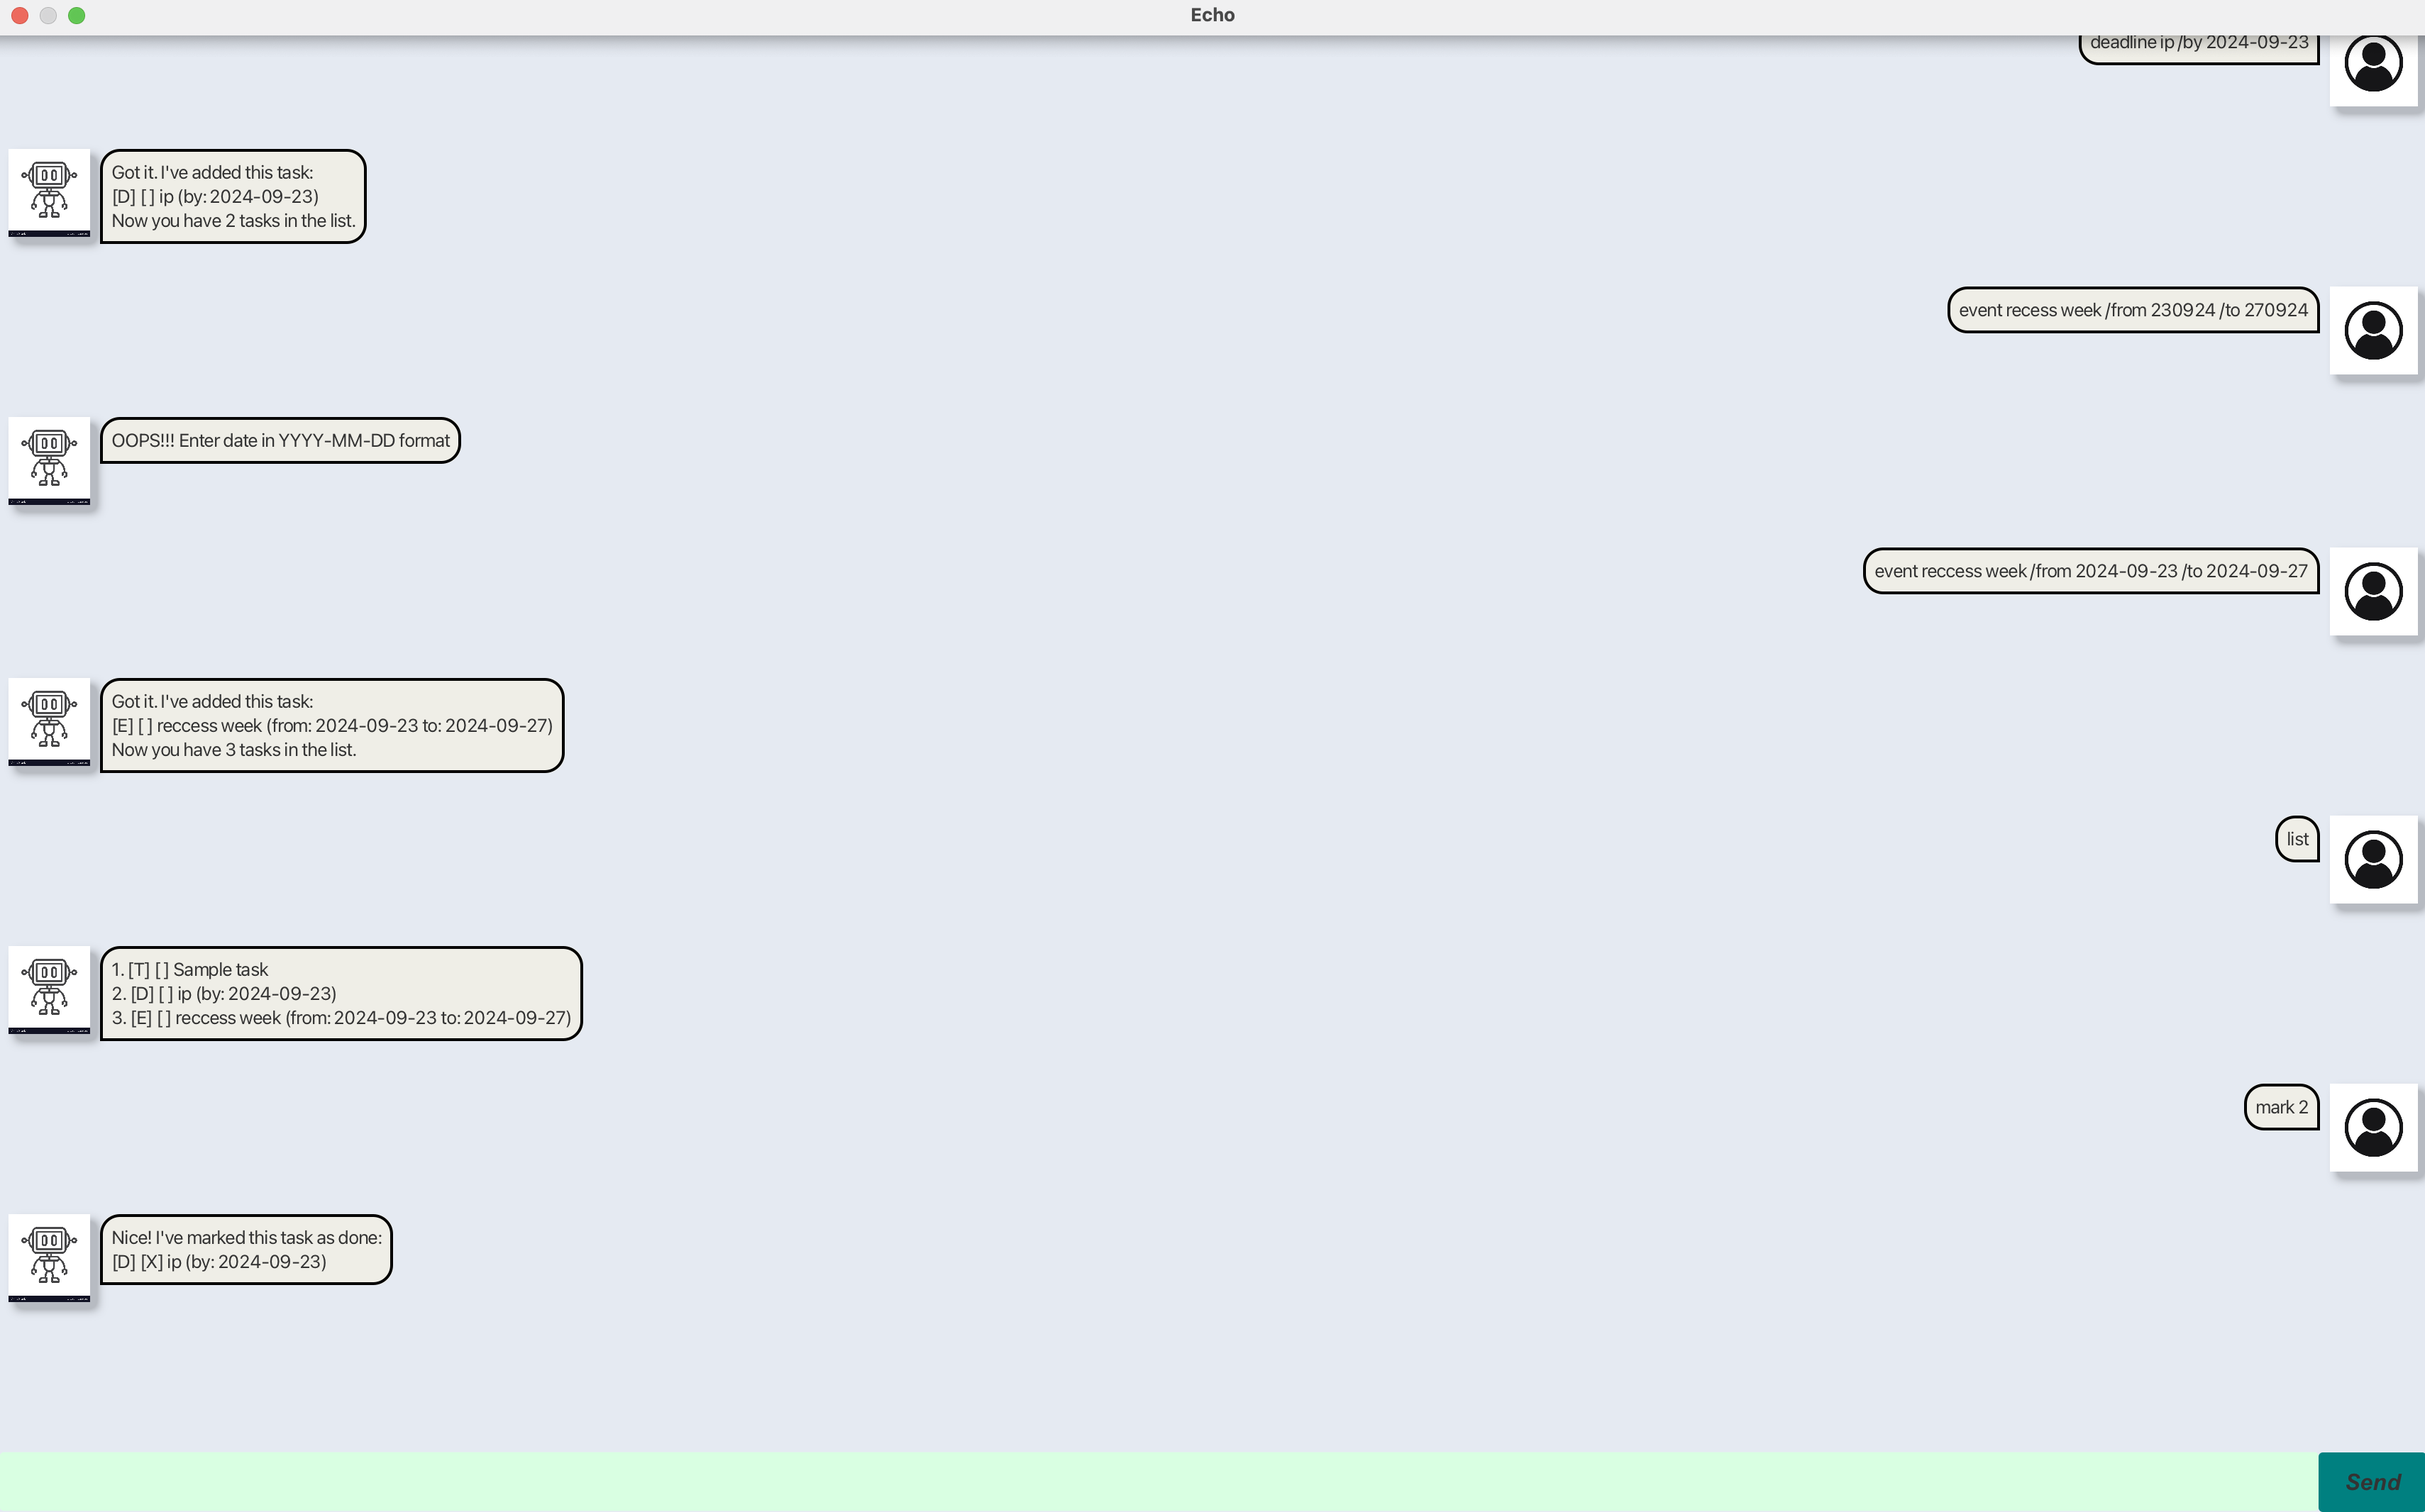
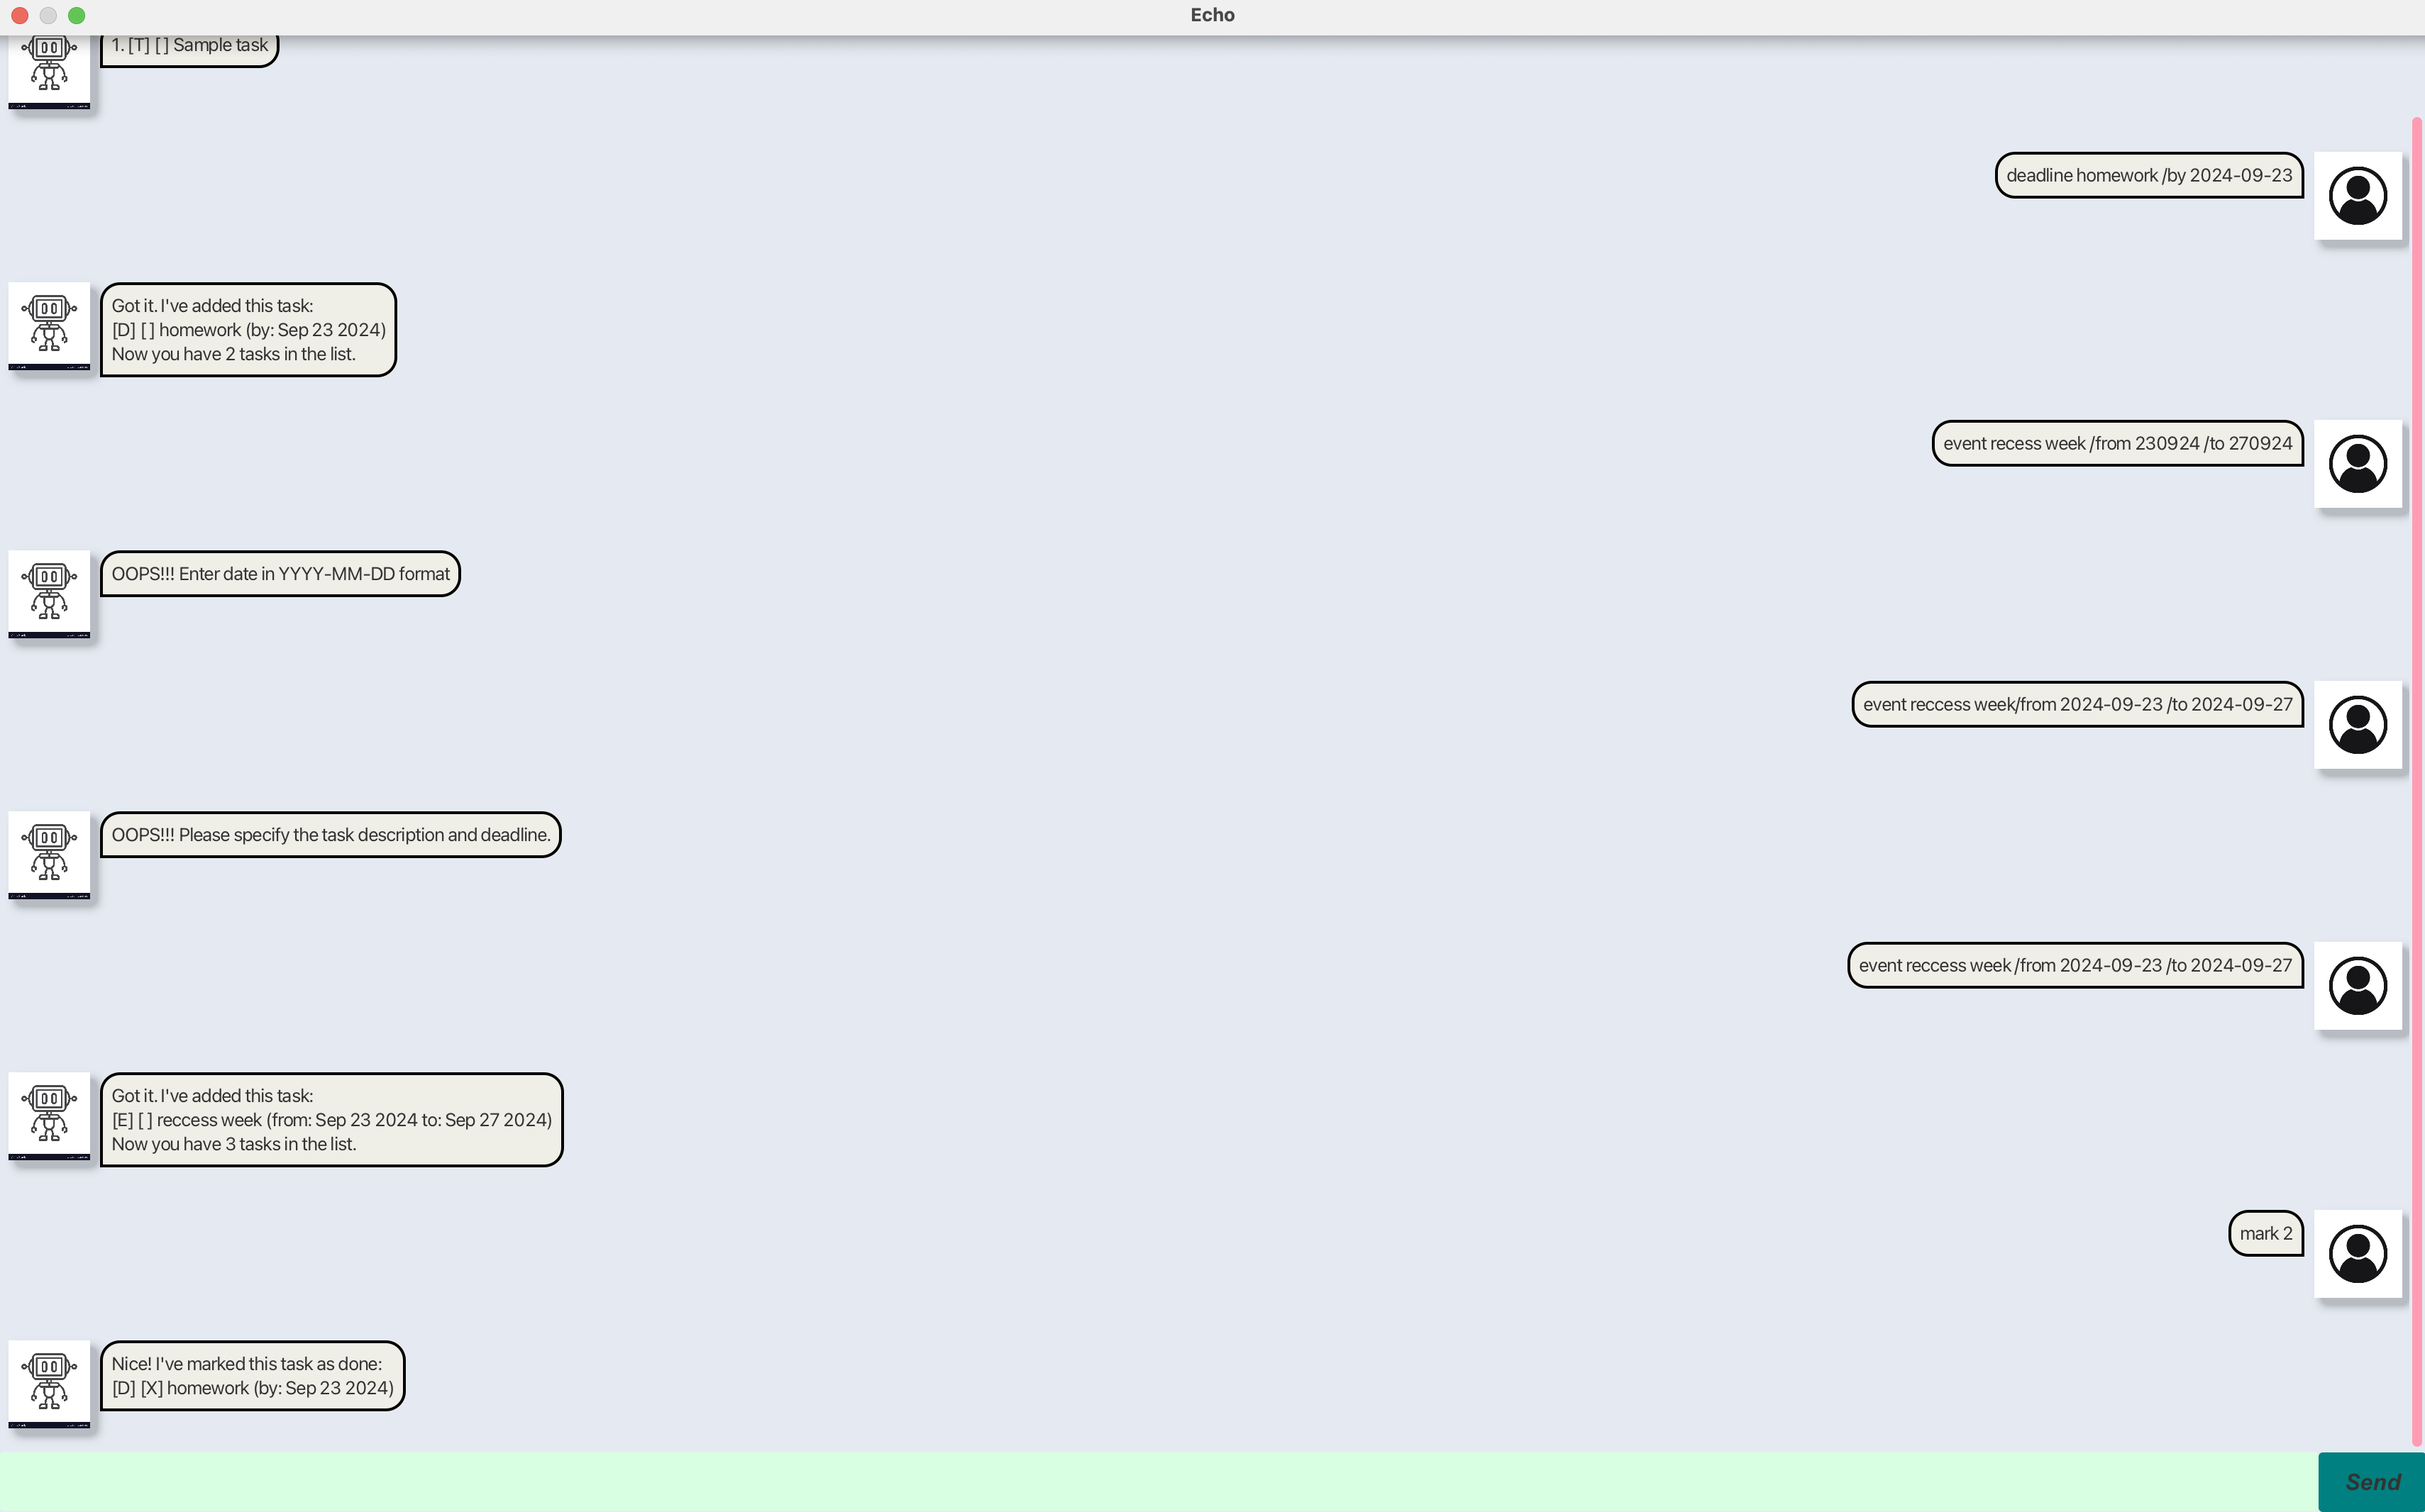
Changed date output format

Changed region(s): [[0.0, 0.031, 0.2481, 0.7739], [0.7753, 0.031, 1.0, 0.9597], [0.0, 0.8049, 0.1551, 0.9597]]

diff --git a/src/main/java/echo/Parser.java b/src/main/java/echo/Parser.java
@@ -27,8 +27,22 @@ public class Parser {
      * @param part The part of the input string that contains the deadline details.
      * @return An array of strings where the first element is the task description and the second element is the deadline.
      */
-    public static String[] parseDeadline(String part) {
-        return part.split(" /by ");
+    public static String parseDeadlineDes(String part) throws EchoException {
+        String[] details = part.split(" /by ");
+        if (details.length == 2) {
+            return details[0];
+        } else {
+            throw new EchoException("Please specify the task description and deadline.");
+        }
+    }
+
+    public static String parseDeadlineTime(String part) throws EchoException {
+        String[] details = part.split(" /by ");
+        if (details.length == 2) {
+            return details[1];
+        } else {
+            throw new EchoException("Please specify the task description and deadline.");
+        }
     }
 
     /**
@@ -46,7 +60,7 @@ public class Parser {
                 if (times.length == 2) {
                     return times;
                 } else {
-                    throw new EchoException("Please specify the task  deadline.");
+                    throw new EchoException("Please specify the task deadline.");
                 }
             } else {
                 throw new EchoException("Please specify the task description and deadline.");

diff --git a/src/main/java/echo/TaskList.java b/src/main/java/echo/TaskList.java
@@ -1,5 +1,6 @@
 package echo;
 import java.io.FileNotFoundException;
+import java.time.LocalDate;
 import java.time.format.DateTimeParseException;
 import java.util.ArrayList;
 import java.util.List;
@@ -158,15 +159,11 @@ public class TaskList {
      */
     public Deadline addDeadline( String input) throws EchoException, DateTimeParseException {
         try {
-            String[] details = input.split(" /by ", 2);
-            if (details.length == 2) {
-                Deadline deadlineTask = new Deadline(details[0], details[1]);
-                this.tasks.add(deadlineTask);
-                return deadlineTask;
-            } else {
-                throw new EchoException("Please specify the task description and deadline.");
-
-            }
+            String details = Parser.parseDeadlineDes(input);
+            String deadline = Parser.parseDeadlineTime(input);
+            Deadline deadlineTask = new Deadline(details, deadline);
+            this.tasks.add(deadlineTask);
+            return deadlineTask;
         } catch (DateTimeParseException e) {
             throw new EchoException("Enter date in YYYY-MM-DD format");
         }

diff --git a/src/main/java/echo/Events.java b/src/main/java/echo/Events.java
@@ -1,5 +1,6 @@
 package echo;
 import java.time.LocalDate;
+import java.time.format.DateTimeFormatter;
 import java.time.format.DateTimeParseException;
 
 
@@ -34,7 +35,8 @@ public class Events extends Task {
      */
     @Override
     public String toString() {
-        return "[E] " + super.toString() + " (from: " + start + " to: " + end + ")";
+        return "[E] " + super.toString() + " (from: " + start.format(DateTimeFormatter.ofPattern("MMM d yyyy")) +
+                " to: " + end.format(DateTimeFormatter.ofPattern("MMM d yyyy")) + ")";
     }
 
     /**

diff --git a/src/main/java/echo/Deadline.java b/src/main/java/echo/Deadline.java
@@ -1,5 +1,6 @@
 package echo;
 import java.time.LocalDate;
+import java.time.format.DateTimeFormatter;
 import java.time.format.DateTimeParseException;
 
 /**
@@ -29,7 +30,7 @@ public class Deadline extends Task {
      */
     @Override
     public String toString() {
-        return "[D] " + super.toString() + " (by: " + by + ")";
+        return "[D] " + super.toString() + " (by: " + by.format(DateTimeFormatter.ofPattern("MMM d yyyy")) + ")";
     }
 
     /**
